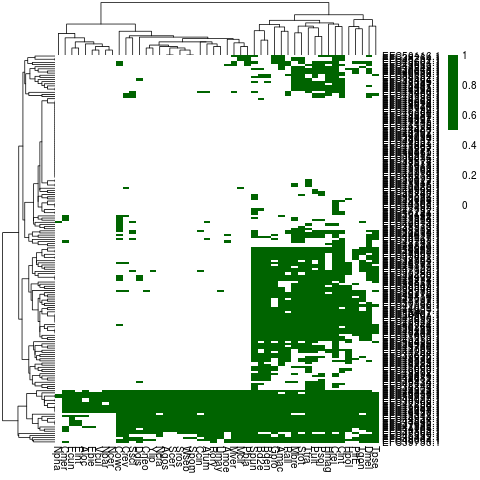
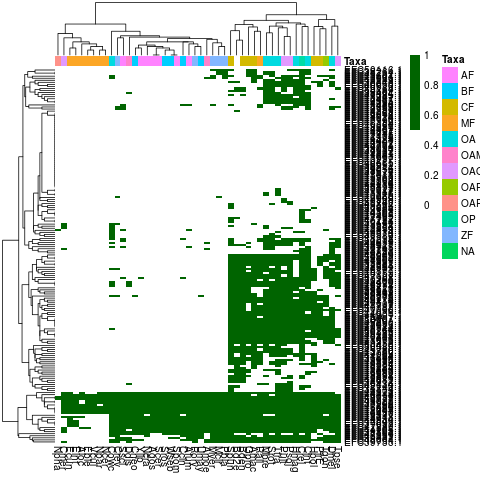
Added code to color by taxonomy

diff --git a/Appendix/img/Ahrendt_thesis_AppFlagella_Figs.tex b/Appendix/img/Ahrendt_thesis_AppFlagella_Figs.tex
@@ -9,7 +9,12 @@
 % Flagellar heat map from James et al 2009
 \begin{figure}
 \begin{center}
-\includegraphics{./Appendix/img/heatmap.png}
+\begin{Schunk}
+\begin{Soutput}
+null device 
+          1 
+\end{Soutput}
+\end{Schunk}
 \end{center}
 \caption[Heatmap cluster analysis of flagellar proteins from \textit{Naegleria gruberi}]{Protein copies identified in proteomes of interest are normalized to indicate presence and absence only, where green indicates that one or more copies were found. Proteins are listed on the right, and proteomes given on the bottom. Both rows and columns are clustered by the "complete" method}
 \label{fig:AppFlag_heatmap}
